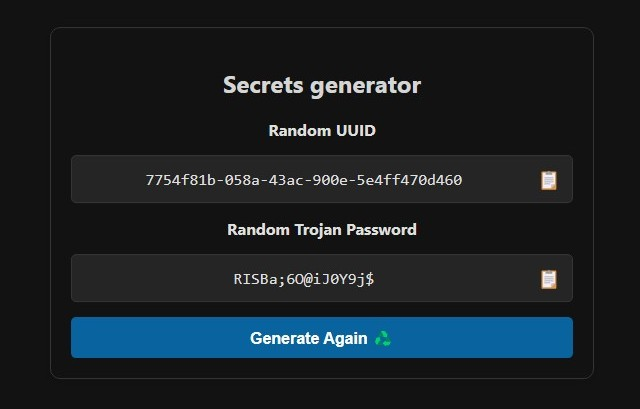
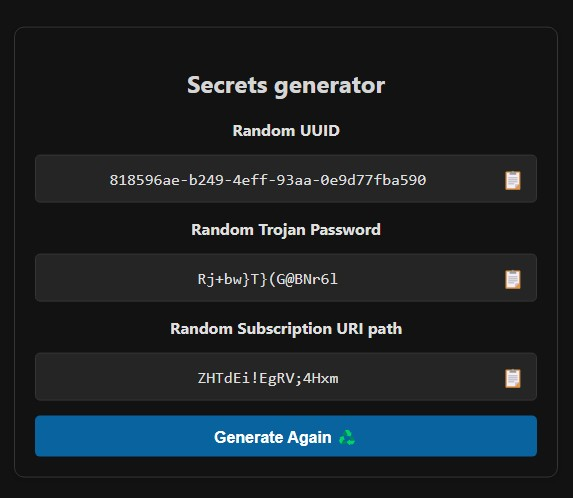
Updated docs, Added sub URI path generator.

diff --git a/src/pages/secrets.js b/src/pages/secrets.js
@@ -125,6 +125,13 @@ export async function renderSecretsPage () {
                         <span class="copy-icon" onclick="copyToClipboard('trojan-password')">📋</span>
                     </div>
                 </div>
+                <div>
+                    <strong>Random Subscription URI path</strong>
+                    <div class="output-container">
+                        <span id="sub-path" class="output"></span>
+                        <span class="copy-icon" onclick="copyToClipboard('sub-path')">📋</span>
+                    </div>
+                </div>
                 <button class="button" onclick="generateCredentials()">Generate Again ♻</button>
             </div>
         </div>
@@ -146,13 +153,28 @@ export async function renderSecretsPage () {
                 }
                 return password;
             }
+            
+            function generateSubURIPath() {
+                const charset =
+                    "ABCDEFGHIJKLMNOPQRSTUVWXYZabcdefghijklmnopqrstuvwxyz0123456789!@$&*_-+;:',.";
+                let uriPath = '';
+                const randomValues = new Uint8Array(16);
+                crypto.getRandomValues(randomValues);
+    
+                for (let i = 0; i < 16; i++) {
+                    uriPath += charset[randomValues[i] % charset.length];
+                }
+                return uriPath;
+            }
     
             function generateCredentials() {
                 const uuid = generateUUID();
                 const password = generateStrongPassword();
+                const uriPath = generateSubURIPath();
     
                 document.getElementById('uuid').textContent = uuid;
                 document.getElementById('trojan-password').textContent = password;
+                document.getElementById('sub-path').textContent = uriPath;
             }
     
             function copyToClipboard(elementId) {

diff --git a/docs/pages_installation_fa.md b/docs/pages_installation_fa.md
@@ -1,43 +1,22 @@
-<h1 align="center">نصب از طریق Cloudflare Pages با Github</h1>
+<h1 align="center">نصب از طریق Cloudflare Pages با آپلود</h1>
 
 ## مقدمه
-احتمالاً میدونید که دو روش استفاده Worker و Pages برای ساخت پروکسی روی کلادفلر مورد استفاده قرار میگیره، نکته جالب توجه اینه که روش Worker که مرسومتره یه محدودیت داره که روزانه اجازه ارسال بیشتر از صدهزار Request  به شما نمیده. البته این محدودیت برای مصرف ۲-۳ نفر کافیه . برای دور زدن این محدودیت در روش worker  یه دامنه به ورکر وصل میکردیم  و اینجوری نامحدود میشد (که ظاهرا باگ کلادفلر هست). اما Pages این محدودیت رو نداره (اخیرا بعضی موارد گزارش شده که این روش هم محدودیت خواهد داشت، خودتون تست کنید). البته چون ما در این روش از امکانی به اسم Pages functions استفاده میکنیم  کماکان مشابه Worker شما ایمیلی دریافت خواهید کرد که پر شدن ظرفیت مصرف 100k رو به شما اطلاع میده، در این روش حتی اگر از دامنه شخصی هم استفاده کنید باز این ایمیل رو دریافت می کنید. **ولی در نهایت تجربه نشون داده که سرویس شما قطع نخواهد شد.**
+احتمالاً میدونید که دو روش استفاده Worker و Pages برای ساخت پروکسی روی کلادفلر مورد استفاده قرار میگیره، نکته جالب توجه اینه که روش Worker که مرسومتره یه محدودیت داره که روزانه اجازه ارسال بیشتر از صدهزار Request  به شما نمیده. البته این محدودیت برای مصرف ۲-۳ نفر کافیه . برای دور زدن این محدودیت در روش worker  یه دامنه به ورکر وصل میکردیم و اینجوری نامحدود میشد (که ظاهرا باگ کلادفلر هست). اما Pages این محدودیت رو نداره (اخیرا بعضی موارد گزارش شده که این روش هم محدودیت خواهد داشت، خودتون تست کنید). البته چون ما در این روش از امکانی به اسم Pages functions استفاده میکنیم  کماکان مشابه Worker شما ایمیلی دریافت خواهید کرد که پر شدن ظرفیت مصرف 100k رو به شما اطلاع میده، در این روش حتی اگر از دامنه شخصی هم استفاده کنید باز این ایمیل رو دریافت می کنید. **ولی در نهایت تجربه نشون داده که سرویس شما قطع نخواهد شد.**
 
-مزیت  مهم دیگهش سهولت در یروزرسانی هست. وقتی کد پروژه به روز بشه شما هم به راحتی و بدون نیاز به طی مجدد مراحل میتونید پنلتون رو به روزرسانی کنید. توضیحات بیشتر در بخش [بروزرسانی](#بروز-رسانی) اومده.
+## قدم اول - Cloudflare Pages
+اگر اکانت کلود فلر ندارید از [اینجا](https://dash.cloudflare.com/sign-up) یک اکانت بسازید (اینجا هم فقط یک ایمیل برای ثبت نام لازم دارید، بخاطر حساسیتهای کلادفلر توصیه میکنم از ایمیلهای معتبر مثل Gmail استفاده کنید).
 
-ضمنا مراحل استفاده از Pages بسیار سادهتر است و به راحتی روی گوشی موبایلتون میتونید این کارها رو انجام بدید.<br><br>
+از [اینجا](https://github.com/bia-pain-bache/BPB-Worker-Panel/releases/latest/download/worker.zip) فایل زیپ ورکر رو دانلود کنید.
 
-## قدم اول - Github
-در سایت [Github](https://github.com/signup) یه اکانت میسازید ( برای ثبت نام فقط یک ایمیل لازم دارید، توصیه میکنم از ایمیلهای Fake یا موقت استفاده نکنید). با مشخصات کاربریتون در گیتهاب لاگین میکنید.
-
-حالا به آدرس گیتهاب [BPB-Worker-Panel](https://github.com/bia-pain-bache/BPB-Worker-Panel) میرید و از اون بالا دکمهی Fork رو میزنید.
-<br><br>
-<p align="center">
-  <img src="assets/images/Fork_repo.jpg">
-</p>
-
-تو صفحهی بعدی به هیچی دست نزنید و Create Fork رو بزنید. خب کار ما با گیتهاب تموم شد.
-<br><br>
-
-## قدم دوم - Cloudflare Pages
-اگر اکانت کلود فلر ندارید از [اینجا](https://dash.cloudflare.com/sign-up) یک اکانت بسازید (اینجا هم فقط یک ایمیل برای ثبت نام لازم دارید).
-
-حالا در اکانت کلادفلرتون از منوی سمت چپ وارد قسمت `Workers and Pages` بشید (همونجا که ورکر میساختیم) و `Create Application` رو بزنید. با این تفاوت این دفعه `Pages` رو انتخاب میکنیم:
+حالا در اکانت کلادفلرتون از منوی سمت چپ وارد قسمت `Workers and Pages` بشید و `Create Application` رو بزنید و `Pages` رو انتخاب کنید:
 
 <p align="center">
   <img src="assets/images/Pages_application.jpg">
 </p>
 
-اینجا `Connect to Git` رو میزنید و میرید مرحله بعد:
+اینجا `Upload assets` رو میزنید و میرید مرحله بعد.
+یه `Project Name` داره که میشه دامنهی پنل شما، یه اسم دلخواه بذارید که کلمهی bpb هم داخلش نباشه وگرنه ممکنه اکانتتون توسط کلادفلر شناسایی بشه. `Create Project` رو بزنید. این مرحله باید اون فایل Zip که دانلود کردید رو آپلود کنید، برای این کار `Select from computer` رو بزنید و بعد Upload zip رو انتخاب کنید و فایل رو آپلود کنید و در نهایت `Deploy site` و بعد هم `Continue to project`.
 
-<p align="center">
-  <img src="assets/images/Connect_to_git.jpg">
-</p>
-
-اینجا روی `BPB-Worker-Panel` کلیک کنید تا فعال بشه و `Begin Setup` رو بزنید. مرحلهی بعد یه `Project Name` داره که میشه دامین پنل شما، اونو حتما عوض کنید که کلمهی bpb توش نباشه و یه اسم دلخواه بذارید وگرنه ممکنه اکانتتون توسط کلادفلر شناسایی بشه.
-
-دیگه الان میتونید `Save and Deploy` رو بزنید.
-یه چند ثانیه زمان میخواد تا پروژه نصب بشه، صبر کنید تا دکمهی `Continue to Project` ظاهر بشه و بزنید و برید تو صفحهی پروژه.
 خب پروژهی شما ساخته شد ولی هنوز قابل استفاده نیست. از همین صفحهی `Deployment` قسمت `Production` روی `visit` کلیک کنید، میبینید ارور داده که اول باید UUID و Trojan Password رو تنظیم کنید، یه لینک داره، داخل مرورگر بازش کنید  بذارید باشه برای مرحله بعد نیاز میشه.
 
 <p align="center">
@@ -71,27 +50,15 @@
 
 تو همین قسمت `Settings` بخش `Variables and Secrets` رو میبینید، `Add variable` بزنید خونه اول `UUID` با حروف بزرگ، UUID رو هم میتونید از همون لینک مرحله قبل بگیرید و کپی کنید قسمت Value و `Save` کنید. یک بار دیگه `Add variable` بزنید خونه اول `TR_PASS` با حروف بزرگ، پسورد Trojan رو هم میتونید از همون لینک مرحله قبل بگیرید و کپی کنید قسمت Value و `Save` کنید.
 
-از نوار بالا به قسمت `Deployment` برگردید و از بخش `Production` برید به `view details`:
+خب حالا از بالای صفحه `Create deployment` رو بزنید و دوباره مثل قبل همون فایل zip رو آپلود کنید.
 
-<p align="center">
-  <img src="assets/images/Pages_production_details.jpg">
-</p>
-
-حالا تو قسمت `Deployment detail` دکمهی `Manage Deployment` رو بزنید و `Retry deployment`:
-
-<p align="center">
-  <img src="assets/images/Pages_retry_deployment.jpg">
-</p>
-
-چند ثانیه صبر میکنید تا مراحلش تموم شه و کار ما تموم شد!
-
-یه Back بزنید و از قسمت `Production` روی `visit site` بزنید، بعد یه `panel/` تهش اضافه کنید و وارد پنل بشید.
+الان میتونید برگردید به صفحهی `Deployments` و از قسمت `Production` روی `visit` بزنید، بعد یه `panel/` تهش اضافه کنید و وارد پنل بشید.
 آموزشهای تنظیمات و نکات هم که تو [آموزش اصلی](configuration_fa.md)  هست.
 نصب به پایان رسیده و توضیحاتی که در ادامه اومده شاید برای عموم لازم نباشه!
 <br><br>
 <h1 align="center">تنظیمات پیشرفته (اختیاری)</h1>
 
-## 2- ثابت کردن Proxy IP:
+## 1- ثابت کردن Proxy IP:
 
 ما یه مشکلی داریم که این کد به صورت پیشفرض از تعداد زیادی IP Proxy استفاده میکنه که برای هر بار اتصال به سایتای پشت کلادفلر ( شامل بخش وسیعی از وب میشه) به صورت رندوم IP جدیدی انتخاب میکنه و در نتیجه به صورت متناوب IP شما تغییر پیدا میکنه. این تغییر IP شاید برای برخی مشکل ساز باشه (مخصوصا تریدرها). برای تغییر Proxy IP از ورژن 2.3.5 به بعد میتونید از طریق خود پنل انجام بدید، به این ترتیب که اعمال میکنید و ساب رو آپدیت میکنید و تمام. اما توصیه میکنم از روشی که در ادامه توضیح دادم استفاده کنید چون:
 
@@ -122,7 +89,17 @@
 > [!TIP]
 > اگر خواستید چند Proxy IP داشته باشید میتونید با ویرگول وارد کنید، مثل `151.213.181.145`,`5.163.51.41`,`bpb.yousef.isegaro.com`
 
-از نوار بالا به قسمت `Deployment` برگردید و از بخش `Production` برید به `view details` و تو قسمت `Deployment detail` دکمهی `Manage Deployment` رو بزنید و `Retry deployment`.
+خب حالا از بالای صفحه `Create deployment` رو بزنید و دوباره مثل اول همون فایل zip رو آپلود کنید، تغییرات اعمال میشه.
+<br><br>
+
+## 2- تغییر دادن دامنه Fallback:
+
+حتما متوجه شدید که وقتی دامنه اصلی Pages رو باز میکنید وارد سایت تست سرعت کلادفلر میشه. برای تغییرش مثل مراحلی که برای Proxy IP رفتیم باید اقدام کنید، فقط اسم این متغیر وقتی `Add variable` میزنید باید `FALLBACK` باشه، مقدارش هم یه دامنه دلخواه بدون https:// یا http:// باشه. مثلا www.speedtest.net یا npmjs.org.
+<br><br>
+
+## 3- تغییر دادن مسیر دریافت Subscription ها:
+
+بصورت پیشفرض مسیر دریافت لینکای اشتراک همون UUID هست که برای VLESS هم استفاده میشه. اما اگر کانفیگ اهدا کنید، یوزر میتونه UUID رو از کانفیگ برداره و از اون طریق ساب شما رو وارد کنه و به همهی کانفیگاتون دسترسی داشته باشه. البته وقتی اهدا میکنیم به نظرم دیگه نباید نگران استفادهی بیشتر باشیم ولی بهرحال این قابلیت وجود داره که مسیر عوض بشه و یوزر نتونه به سابها دسترسی داشته باشه. مراحل دقیقا مثل بخش 1 و 2 هست با این تفاوت که اسم متغیر `SUB_PATH` هست. اگر به مسیر secrets/ یه همون صفحهی Secrets generator برید میبینید یه گزینهی `Random Subscription URI path` اضافه شده که یه مسیر براتون تولید کرده، میتونید ازش استفاده کنید یا مقدار دلخواه بذارید (با در نظر گرفتن کاراکترهای مجاز).
 <br><br>
 
 ## 4- اتصال دامنه به Pages:
@@ -132,10 +109,4 @@
 
 <h1 align="center">بروزرسانی پنل</h1>
 
-یکی از مزیتهای Pages نسبت به Worker اینه که وقتی آپدیتی برای کد منتشر میشه دیگه نیازی نیست برید ورژن جدید worker.js رو دانلود کنید و روز از نو روزی از نو! اصلا برای آپدیت دیگه کاری به کلادفلر ندارید. کافیه به گیتهاب خودتون برید وارد ریپازیتوری `BPB-Worker-Panel` بشید و از اینجا `Sync fork` رو بزنید:
-
-<p align="center">
-  <img src="assets/images/Sync_fork.jpg">
-</p>
-
-بعد `Update branch` رو میزنید و تمام. خوبیش اینه که با این کار Cloudflare Pages خودش متوجه میشه و در حدود ۱ دقیقه بعد خودبخود آپدیت میکنه براتون.
+برای بروزرسانی مثل مرحلهی ساخت از [اینجا](https://github.com/bia-pain-bache/BPB-Worker-Panel/releases/latest/download/worker.zip) فایل زیپ جدید رو دانلود کنید. در اکانت کلادفلرتون برید به قسمت `Workers and Pages` و وارد اون پروژهی Pages بشید که ساختید، از بالای صفحه `Create deployment` رو بزنید و دوباره مثل اول همون فایل zip جدید رو آپلود کنید و تمام.

diff --git a/docs/pages_upload_installation_fa.md b/docs/pages_upload_installation_fa.md
@@ -92,7 +92,17 @@
 خب حالا از بالای صفحه `Create deployment` رو بزنید و دوباره مثل اول همون فایل zip رو آپلود کنید، تغییرات اعمال میشه.
 <br><br>
 
-## 2- اتصال دامنه به Pages:
+## 2- تغییر دادن دامنه Fallback:
+
+حتما متوجه شدید که وقتی دامنه اصلی Pages رو باز میکنید وارد سایت تست سرعت کلادفلر میشه. برای تغییرش مثل مراحلی که برای Proxy IP رفتیم باید اقدام کنید، فقط اسم این متغیر وقتی `Add variable` میزنید باید `FALLBACK` باشه، مقدارش هم یه دامنه دلخواه بدون https:// یا http:// باشه. مثلا www.speedtest.net یا npmjs.org.
+<br><br>
+
+## 3- تغییر دادن مسیر دریافت Subscription ها:
+
+بصورت پیشفرض مسیر دریافت لینکای اشتراک همون UUID هست که برای VLESS هم استفاده میشه. اما اگر کانفیگ اهدا کنید، یوزر میتونه UUID رو از کانفیگ برداره و از اون طریق ساب شما رو وارد کنه و به همهی کانفیگاتون دسترسی داشته باشه. البته وقتی اهدا میکنیم به نظرم دیگه نباید نگران استفادهی بیشتر باشیم ولی بهرحال این قابلیت وجود داره که مسیر عوض بشه و یوزر نتونه به سابها دسترسی داشته باشه. مراحل دقیقا مثل بخش 1 و 2 هست با این تفاوت که اسم متغیر `SUB_PATH` هست. اگر به مسیر secrets/ یه همون صفحهی Secrets generator برید میبینید یه گزینهی `Random Subscription URI path` اضافه شده که یه مسیر براتون تولید کرده، میتونید ازش استفاده کنید یا مقدار دلخواه بذارید (با در نظر گرفتن کاراکترهای مجاز).
+<br><br>
+
+## 4- اتصال دامنه به Pages:
 
 برای این کار به داشبورد کلادفلر میرید و از قسمت `Workers and Pages`  پنل خودتون رو انتخاب میکنید. به قسمت `Custom domains` میرید و `set up a custom domain` رو میزنید. اینجا ازتون میخواد یه Domain وارد کنید (دقت کنید قبلا باید یه دامنه خریداری کرده باشید و روی همین اکانت فعال کرده باشید که اینجا جای آموزشش نیست). حالا فرض کنید یه دامنه دارید به اسم bpb.com، در قسمت Domain میتونید خود دامنه یا یک زیردامنه دلخواه بزنید. مثلا xyz.bpb.com، بعد هم `Continue` رو میزنید و در صفحهی بعد هم `Activate domain`. کلادفلر خودش میره Pages رو به دامنهی شما متصل میکنه (یه مدت طول میکشه تا این اتفاق بیافته، خود کلادفلر میگه ممکنه تا 48 ساعت طول بکشه). خب بعد از این مدت میتونید از آدرس `https://xyz.bpb.com/panel` وارد پنلتون بشید و سابهای جدید رو دریافت کنید.
 <br><br>

diff --git a/docs/worker_installation_fa.md b/docs/worker_installation_fa.md
@@ -78,7 +78,17 @@
 
 <br><br>
 
-## 2- اتصال دامنه به Workers:
+## 2- تغییر دادن دامنه Fallback:
+
+حتما متوجه شدید که وقتی دامنه اصلی Pages رو باز میکنید وارد سایت تست سرعت کلادفلر میشه. برای تغییرش مثل مراحلی که برای Proxy IP رفتیم باید اقدام کنید، فقط اسم این متغیر وقتی `Add variable` میزنید باید `FALLBACK` باشه، مقدارش هم یه دامنه دلخواه بدون https:// یا http:// باشه. مثلا www.speedtest.net یا npmjs.org.
+<br><br>
+
+## 3- تغییر دادن مسیر دریافت Subscription ها:
+
+بصورت پیشفرض مسیر دریافت لینکای اشتراک همون UUID هست که برای VLESS هم استفاده میشه. اما اگر کانفیگ اهدا کنید، یوزر میتونه UUID رو از کانفیگ برداره و از اون طریق ساب شما رو وارد کنه و به همهی کانفیگاتون دسترسی داشته باشه. البته وقتی اهدا میکنیم به نظرم دیگه نباید نگران استفادهی بیشتر باشیم ولی بهرحال این قابلیت وجود داره که مسیر عوض بشه و یوزر نتونه به سابها دسترسی داشته باشه. مراحل دقیقا مثل بخش 1 و 2 هست با این تفاوت که اسم متغیر `SUB_PATH` هست. اگر به مسیر secrets/ یه همون صفحهی Secrets generator برید میبینید یه گزینهی `Random Subscription URI path` اضافه شده که یه مسیر براتون تولید کرده، میتونید ازش استفاده کنید یا مقدار دلخواه بذارید (با در نظر گرفتن کاراکترهای مجاز).
+<br><br>
+
+## 4- اتصال دامنه به Workers:
 
 برای این کار به داشبورد کلادفلر میرید و از قسمت `Workers and Pages` ورکر خودتون رو انتخاب میکنید. به قسمت `Settings` میرید و همون اول `Domains & Routes` رو میبینید، `Add +` رو میزنید و `Custom domain` رو انتخاب میکنید. اینجا ازتون میخواد یه Domain وارد کنید (دقت کنید قبلا باید یه دامنه خریداری کرده باشید و روی همین اکانت فعال کرده باشید که اینجا جای آموزشش نیست). حالا فرض کنید یه دامنه دارید به اسم bpb.com، در قسمت Domain میتونید خود دامنه یا یک زیردامنه دلخواه بزنید. مثلا xyz.bpb.com . بعد هم `Add domain` رو میزنید. کلادفلر خودش میره ورکر رو به دامنهی شما متصل میکنه (یه مدت طول میکشه تا این اتفاق بیافته، خود کلادفلر میگه ممکنه تا 24 ساعت طول بکشه).
 بعد باید دوباره `Add +` رو بزنید و این بار `Route` رو بزنید، قسمت Zone که دامنه خودتون رو انتخاب میکنید و در قسمت Route باید اینجوری دامنه جدید رو وارد کنید: 
